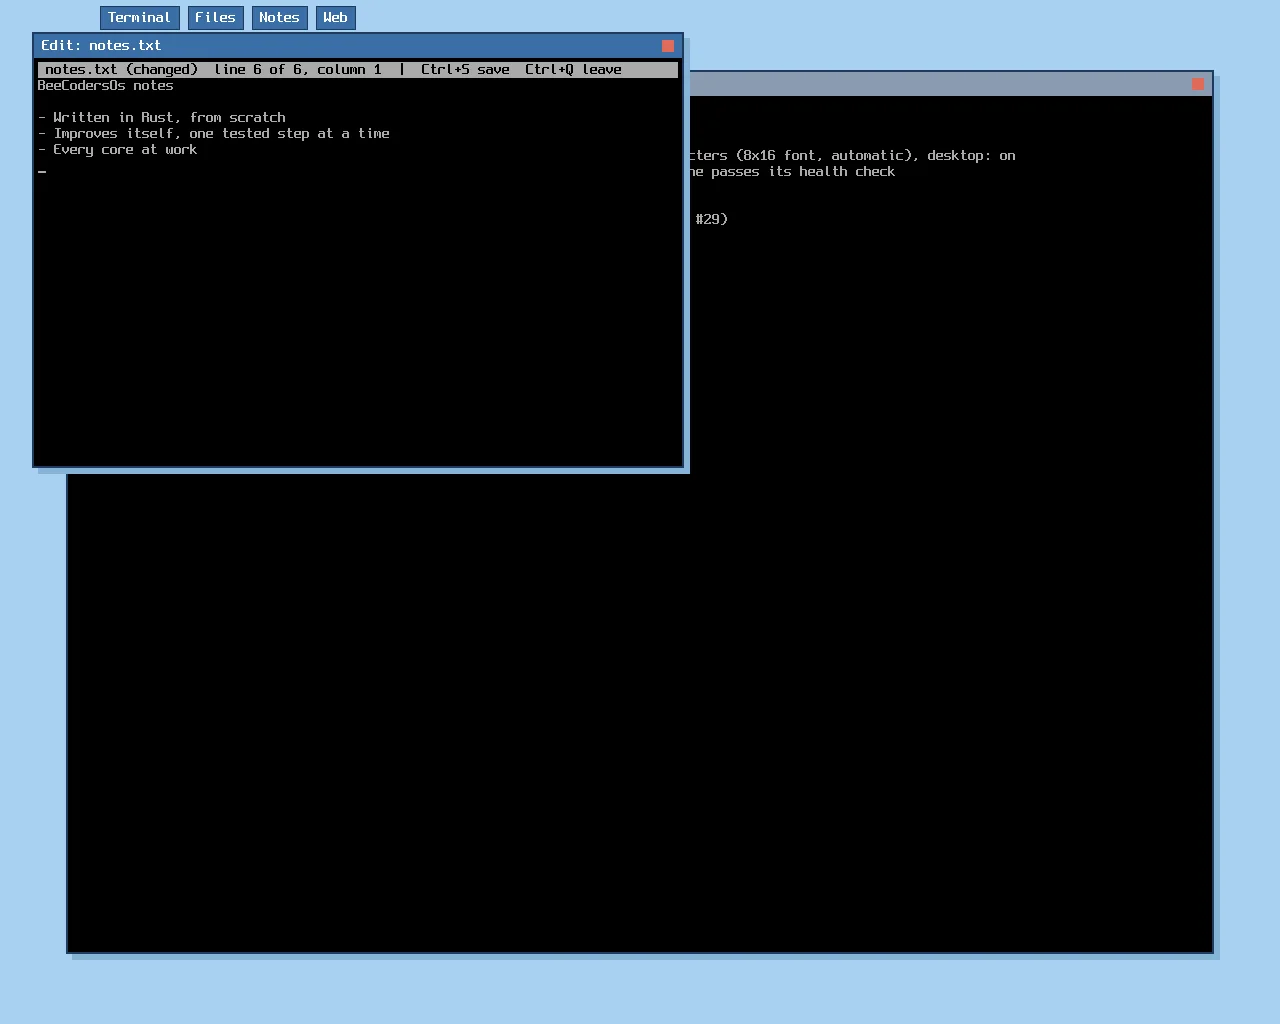
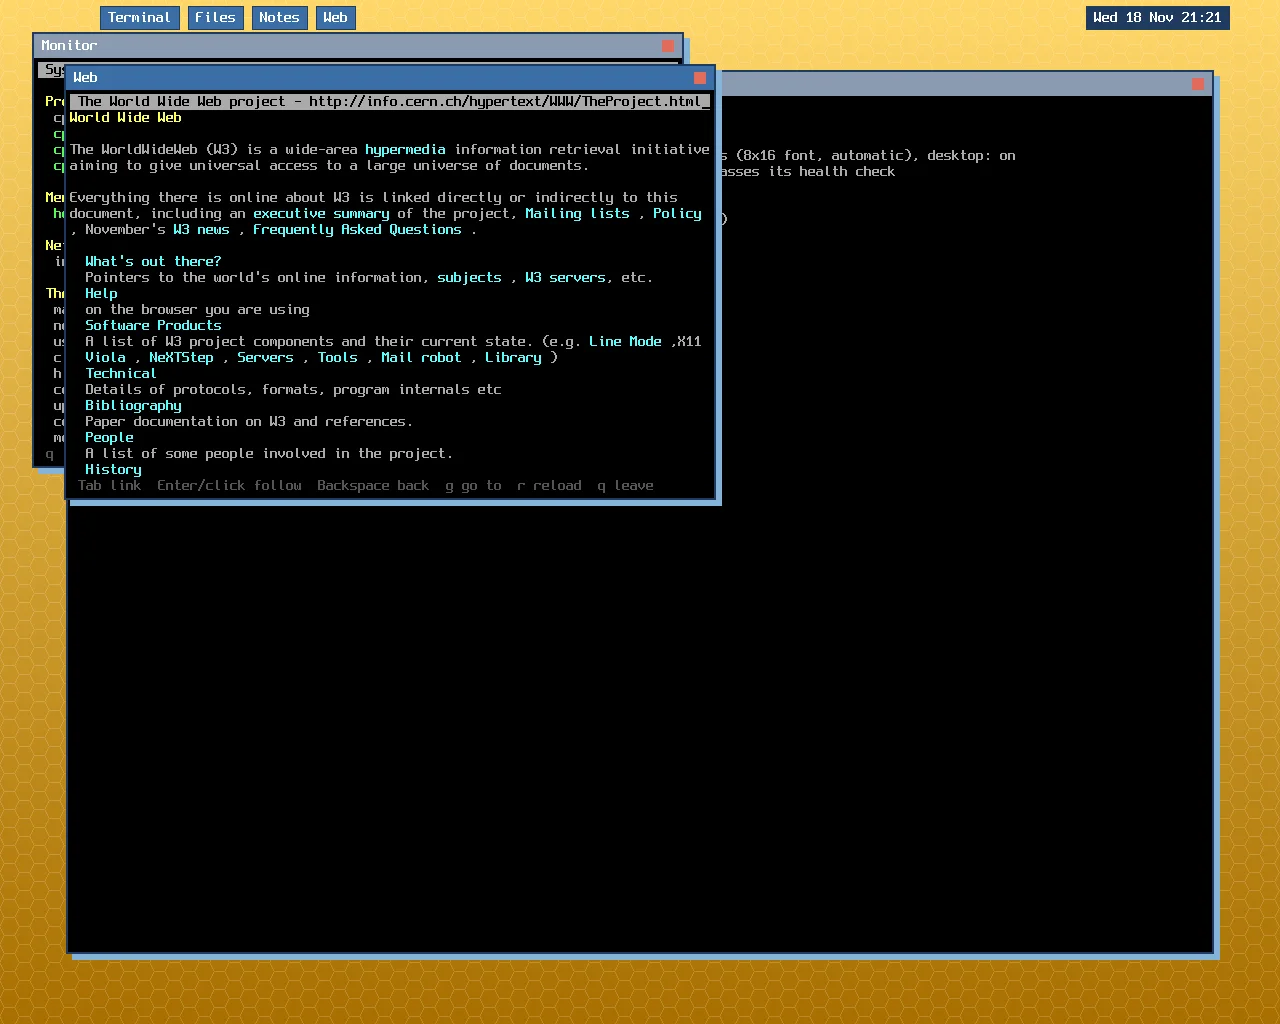
website: build 125 and today's work (clock, pictures, wallpaper, faster disk), the user's requests as next
Fresh screenshots from the HP (desktop with wallpaper and clock, the picture
viewer); counts recounted (29.4k lines, 298 tests, 61 commands).

diff --git a/website/index.html b/website/index.html
@@ -44,7 +44,7 @@
   <div class="hive-bg" aria-hidden="true"></div>
   <div class="wrap hero-grid">
     <div class="hero-text">
-      <p class="pill"><span class="dot"></span> v0.0.3 · build 113 · running on real hardware</p>
+      <p class="pill"><span class="dot"></span> v0.0.3 · build 125 · running on real hardware</p>
       <h1>The operating system that <span class="honey">improves itself</span>.</h1>
       <p class="lead">BeeCodersOs is a 64-bit OS written from scratch in Rust. It notices what goes
         wrong and what people miss, and an AI turns that into small, tested changes that a person
@@ -82,9 +82,9 @@ clover
 
 <!-- ======================================================== numbers -->
 <section class="wrap numbers" aria-label="In numbers">
-  <div><strong data-count="28500">28.5k</strong><span>lines of Rust, from boot code to TCP</span></div>
-  <div><strong data-count="283">283</strong><span>automated tests, run on every change</span></div>
-  <div><strong data-count="113">113</strong><span>builds in the first five days</span></div>
+  <div><strong data-count="29400">29.4k</strong><span>lines of Rust, from boot code to TCP</span></div>
+  <div><strong data-count="298">298</strong><span>automated tests, run on every change</span></div>
+  <div><strong data-count="125">125</strong><span>builds in the first five days</span></div>
   <div><strong>1</strong><span>outside crate in the kernel, for its heap. Everything else is written here</span></div>
 </section>
 
@@ -191,6 +191,13 @@ clover
     </article>
 
     <article class="card">
+      <span class="tag">Time</span>
+      <h3>A clock that knows the season</h3>
+      <p>The desktop shows the local date and time. <code>timezone CET</code> follows Europe's summer time by
+        itself; <code>date</code> shows local time with UTC beside it.</p>
+    </article>
+
+    <article class="card">
       <span class="tag">Multi-core</span>
       <h3>Every core at work</h3>
       <p>All processors start at boot, and work is split across them. Hashing 64 MiB takes
@@ -204,6 +211,17 @@ clover
       <p>From the host you can run commands, read the screen and deploy a new kernel over the network. The machine
         reports whether the new kernel is healthy.</p>
     </article>
+
+    <article class="card span2 shot-card">
+      <div class="card-text">
+        <span class="tag">Pictures</span>
+        <h3>Pictures and wallpaper</h3>
+        <p><code>screenshot</code> saves the screen, <code>view</code> shows a picture in a window and
+          <code>desktop wallpaper</code> puts one behind everything, scaled on every core. Saving a 3.8 MB picture
+          takes under a second: <b>15× faster</b> since the file system stopped rewriting its bookkeeping for every block.</p>
+      </div>
+      <img src="img/viewer.webp" width="664" height="448" loading="lazy" alt="The BeeCodersOs picture viewer showing a screenshot of its own desktop: the honeycomb wallpaper, the clock and the web viewer.">
+    </article>
   </div>
 </section>
 
@@ -213,7 +231,7 @@ clover
     <div class="gallery">
       <figure><img src="img/web-viewer.webp" width="700" height="480" loading="lazy" alt="The first web site ever, info.cern.ch, in the BeeCodersOs web viewer."><figcaption>The first web site ever, info.cern.ch, in its own browser.</figcaption></figure>
       <figure><img src="img/monitor.webp" width="664" height="448" loading="lazy" alt="The BeeCodersOs system monitor: four processors, memory, network traffic and nine kernel threads."><figcaption>The system monitor: every core, memory, network and threads, live.</figcaption></figure>
-      <figure><img src="img/desktop.webp" width="1280" height="1024" loading="lazy" alt="The full BeeCodersOs desktop at 1280×1024 on the HP: a light blue background, buttons for Terminal, Files, Notes and Web, and windows."><figcaption>The whole desktop at 1280×1024 on the HP.</figcaption></figure>
+      <figure><img src="img/desktop.webp" width="1280" height="1024" loading="lazy" alt="The full BeeCodersOs desktop at 1280×1024 on the HP: a honeycomb wallpaper, buttons for Terminal, Files, Notes and Web, a clock at the top right, and the system monitor and web viewer in windows."><figcaption>The whole desktop at 1280×1024 on the HP, with its wallpaper and clock.</figcaption></figure>
     </div>
   </div>
 </section>
@@ -236,7 +254,7 @@ clover
   <h2>From the first instruction to the AI, written here.</h2>
   <div class="stack">
     <div class="layer l5"><b>beehive</b><span>on the host: AI bridge, backlog, deploys</span></div>
-    <div class="layer l4"><b>BeeShell &amp; desktop</b><span>58 commands, windows, editor, browser</span></div>
+    <div class="layer l4"><b>BeeShell &amp; desktop</b><span>61 commands, windows, editor, browser, pictures</span></div>
     <div class="layer l3"><b>beenet · BeeFS</b><span>network stack and file system, unit-tested on the host</span></div>
     <div class="layer l2"><b>Kernel</b><span>threads, SMP, drivers (SATA, e1000, xHCI USB, framebuffer, ACPI)</span></div>
     <div class="layer l1"><b>Boot</b><span>Limine, BIOS and UEFI, A/B slots</span></div>
@@ -254,9 +272,9 @@ clover
       <li class="done"><time>Nov 15</time><b>Onto real hardware</b><span>HTTP, time and file transfer; threads; a status page and a remote shell; SATA disks and the Intel network card on the HP; the first desktop</span></li>
       <li class="done"><time>Nov 16</time><b>Installed on the HP</b><span>graphics through the firmware's framebuffer, USB keyboard and mouse, beehive over the network, an installer for the hard disk</span></li>
       <li class="done"><time>Nov 17</time><b>A desktop worth using</b><span>several windows, a text editor, a file manager, fast drawing, restarting by itself after a crash, driven from the host</span></li>
-      <li class="done"><time>Nov 18</time><b>Every core, and the web</b><span>all four processors at work, a web browser, <code>do</code>, <code>grep</code> and friends, a system monitor</span></li>
-      <li class="next"><time>Next</time><b>Apps in a sandbox</b><span>AI-written apps in WebAssembly, so new commands don't need a kernel change</span></li>
-      <li class="next"><time>Later</time><b>And then</b><span>encrypted web (TLS), sound, paging, user programs</span></li>
+      <li class="done"><time>Nov 18</time><b>Every core, and the web</b><span>all four processors at work, a web browser, <code>do</code>, <code>grep</code> and friends, a system monitor, a clock with time zones, pictures and wallpaper, and disk writes 15× faster</span></li>
+      <li class="next"><time>Next</time><b>Asked for by its user</b><span>a remote desktop to reach it from another computer, users and permissions, a USB camera</span></li>
+      <li class="next"><time>Later</time><b>And then</b><span>AI-written apps in a WebAssembly sandbox, encrypted web (TLS), sound, paging, user programs</span></li>
     </ol>
   </div>
 </section>
